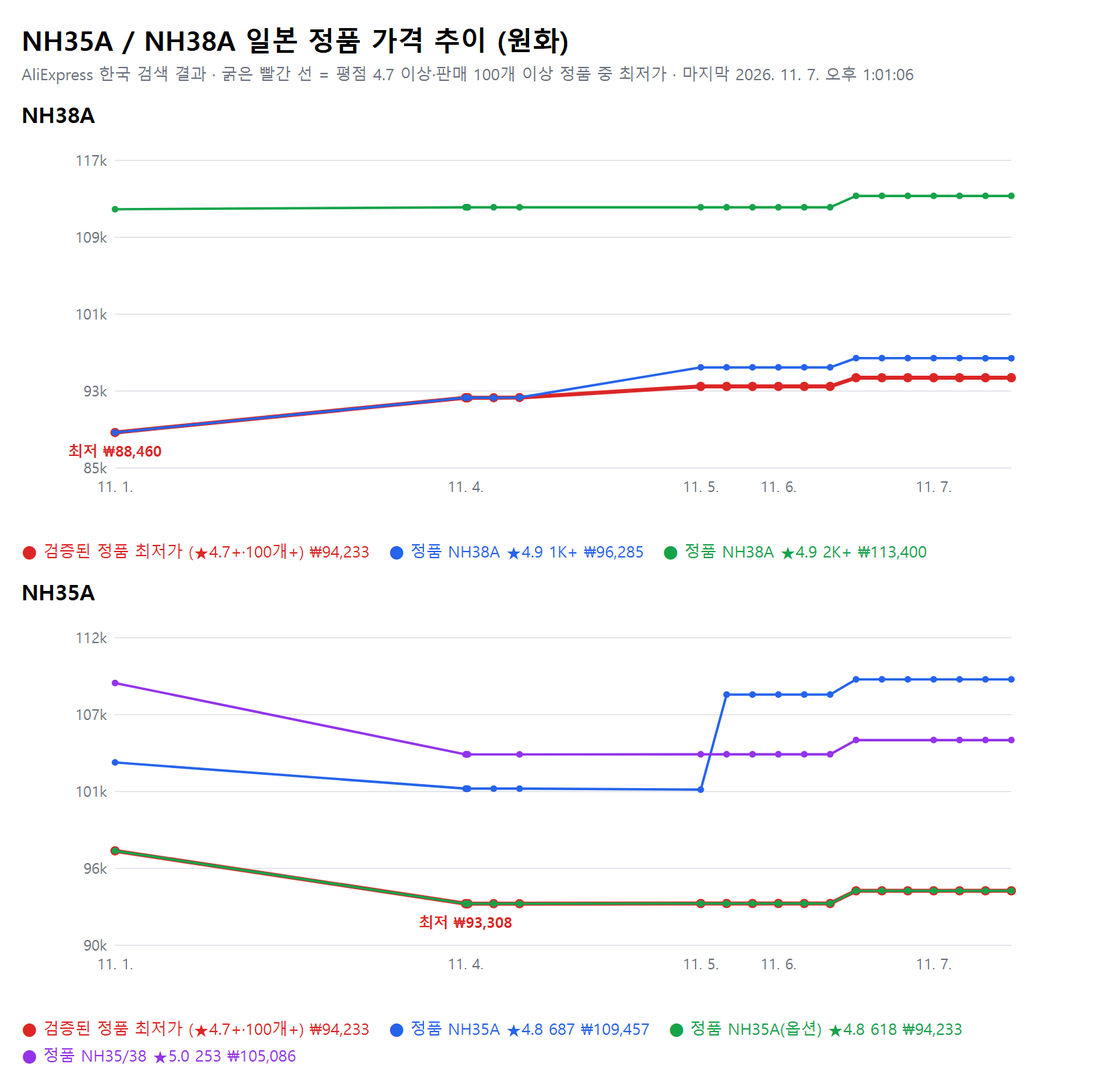
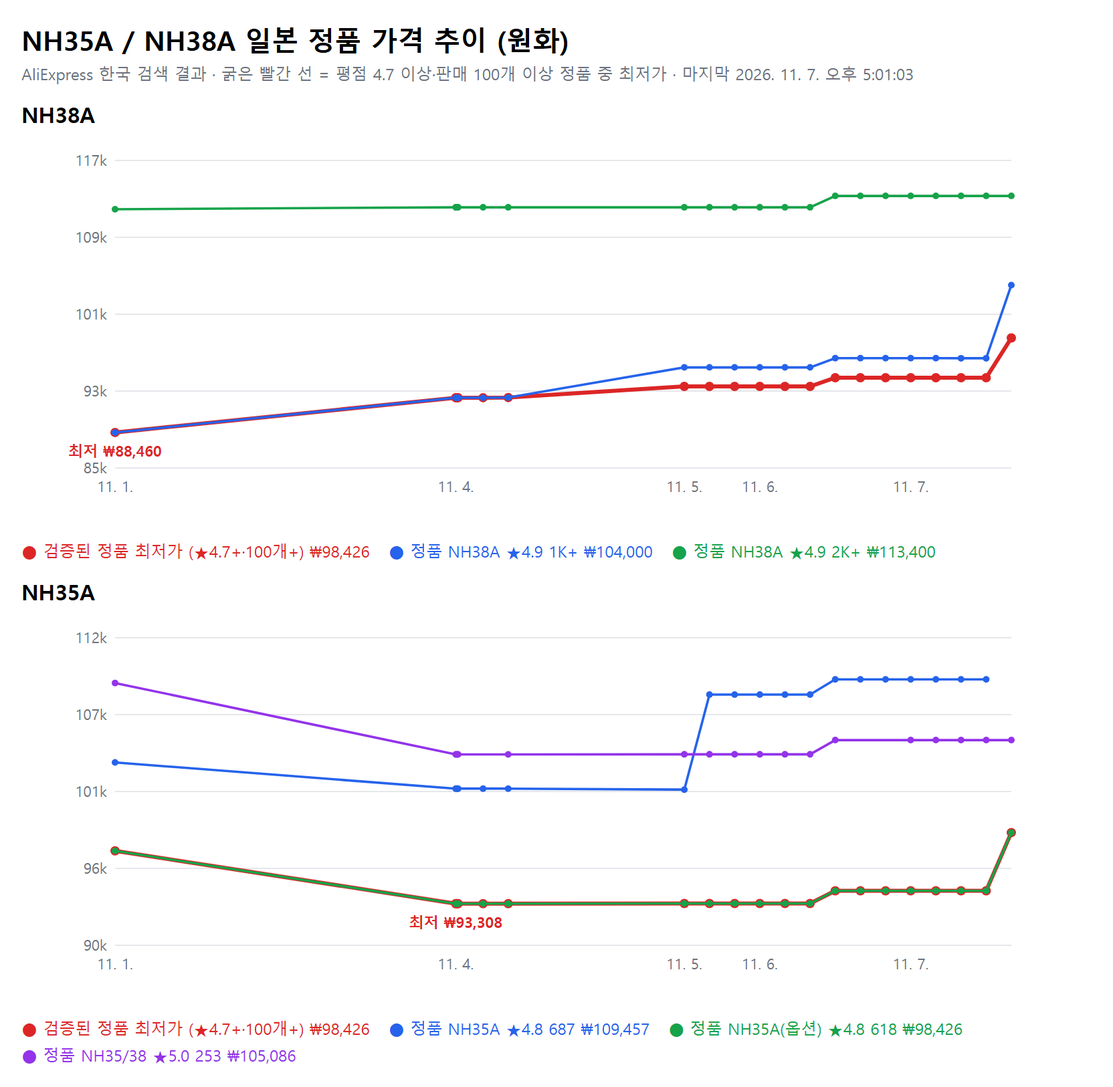
Price tracker update 2026-11-07 17:00 KST

diff --git a/watch_mod/price_tracker/chart.html b/watch_mod/price_tracker/chart.html
@@ -1,2 +1,2 @@
 <!DOCTYPE html><html><head><meta charset="utf-8"><style>body{font-family:sans-serif;margin:16px;width:800px}h1{font-size:20px;margin:0 0 4px}p{color:#6b7280;margin:0 0 8px;font-size:12px}h2{font-size:16px;margin:12px 0 4px}.lg{font-size:12px;display:flex;flex-wrap:wrap;gap:4px 14px}</style></head><body>
-  <h1>NH35A / NH38A 일본 정품 가격 추이 (원화)</h1><p>AliExpress 한국 검색 결과 · 굵은 빨간 선 = 평점 4.7 이상·판매 100개 이상 정품 중 최저가 · 마지막 2026. 11. 7. 오후 1:01:06</p><h2>NH38A</h2><svg width="760" height="300" xmlns="http://www.w3.org/2000/svg" font-family="sans-serif" font-size="11"><line x1="70" x2="740" y1="250" y2="250" stroke="#e5e7eb"/><text x="64" y="254" text-anchor="end" fill="#6b7280">85k</text><line x1="70" x2="740" y1="192.5" y2="192.5" stroke="#e5e7eb"/><text x="64" y="196.5" text-anchor="end" fill="#6b7280">93k</text><line x1="70" x2="740" y1="135" y2="135" stroke="#e5e7eb"/><text x="64" y="139" text-anchor="end" fill="#6b7280">101k</text><line x1="70" x2="740" y1="77.5" y2="77.5" stroke="#e5e7eb"/><text x="64" y="81.5" text-anchor="end" fill="#6b7280">109k</text><line x1="70" x2="740" y1="20" y2="20" stroke="#e5e7eb"/><text x="64" y="24" text-anchor="end" fill="#6b7280">117k</text><text x="70" y="268" text-anchor="middle" fill="#6b7280">11. 1.</text><text x="332.0181227190417" y="268" text-anchor="middle" fill="#6b7280">11. 4.</text><text x="507.82617913022466" y="268" text-anchor="middle" fill="#6b7280">11. 5.</text><text x="565.8701271071232" y="268" text-anchor="middle" fill="#6b7280">11. 6.</text><text x="681.956586769558" y="268" text-anchor="middle" fill="#6b7280">11. 7.</text><polyline fill="none" stroke="#dc2626" stroke-width="3" points="70,223.46153846153845 332.0181227190417,197.46221701313925 332.438472397783,197.46221701313925 333.3604209706352,197.46221701313925 333.8277087585664,197.46221701313925 353.04366816047747,197.46221701313925 372.3862469243481,197.3203380420702 507.82617913022466,189.01332428597865 527.17584530002,189.01332428597865 546.5215196815684,189.01332428597865 565.8701271071232,189.01332428597865 585.217799398171,189.01332428597865 604.568900515744,189.01332428597865 623.9105629552846,182.50817346246376 643.2569521235538,182.50817346246376 662.6086067977601,182.50817346246376 681.956586769558,182.50817346246376 701.2987732068827,182.50817346246376 720.6488867901704,182.50817346246376 740,182.50817346246376"/><circle cx="70" cy="223.46153846153845" r="3.5" fill="#dc2626"/><circle cx="332.0181227190417" cy="197.46221701313925" r="3.5" fill="#dc2626"/><circle cx="332.438472397783" cy="197.46221701313925" r="3.5" fill="#dc2626"/><circle cx="333.3604209706352" cy="197.46221701313925" r="3.5" fill="#dc2626"/><circle cx="333.8277087585664" cy="197.46221701313925" r="3.5" fill="#dc2626"/><circle cx="353.04366816047747" cy="197.46221701313925" r="3.5" fill="#dc2626"/><circle cx="372.3862469243481" cy="197.3203380420702" r="3.5" fill="#dc2626"/><circle cx="507.82617913022466" cy="189.01332428597865" r="3.5" fill="#dc2626"/><circle cx="527.17584530002" cy="189.01332428597865" r="3.5" fill="#dc2626"/><circle cx="546.5215196815684" cy="189.01332428597865" r="3.5" fill="#dc2626"/><circle cx="565.8701271071232" cy="189.01332428597865" r="3.5" fill="#dc2626"/><circle cx="585.217799398171" cy="189.01332428597865" r="3.5" fill="#dc2626"/><circle cx="604.568900515744" cy="189.01332428597865" r="3.5" fill="#dc2626"/><circle cx="623.9105629552846" cy="182.50817346246376" r="3.5" fill="#dc2626"/><circle cx="643.2569521235538" cy="182.50817346246376" r="3.5" fill="#dc2626"/><circle cx="662.6086067977601" cy="182.50817346246376" r="3.5" fill="#dc2626"/><circle cx="681.956586769558" cy="182.50817346246376" r="3.5" fill="#dc2626"/><circle cx="701.2987732068827" cy="182.50817346246376" r="3.5" fill="#dc2626"/><circle cx="720.6488867901704" cy="182.50817346246376" r="3.5" fill="#dc2626"/><circle cx="740" cy="182.50817346246376" r="3.5" fill="#dc2626"/><polyline fill="none" stroke="#2563eb" stroke-width="1.8" points="70,223.46153846153845 332.0181227190417,197.46221701313925 332.438472397783,197.46221701313925 333.3604209706352,197.46221701313925 333.8277087585664,197.46221701313925 353.04366816047747,197.46221701313925 372.3862469243481,197.3203380420702 507.82617913022466,174.7899574363087 527.17584530002,174.7899574363087 546.5215196815684,174.7899574363087 565.8701271071232,174.7899574363087 585.217799398171,174.7899574363087 604.568900515744,174.7899574363087 623.9105629552846,167.85207575103323 643.2569521235538,167.85207575103323 662.6086067977601,167.85207575103323 681.956586769558,167.85207575103323 701.2987732068827,167.85207575103323 720.6488867901704,167.9513910307816 740,167.9513910307816"/><circle cx="70" cy="223.46153846153845" r="2.5" fill="#2563eb"/><circle cx="332.0181227190417" cy="197.46221701313925" r="2.5" fill="#2563eb"/><circle cx="332.438472397783" cy="197.46221701313925" r="2.5" fill="#2563eb"/><circle cx="333.3604209706352" cy="197.46221701313925" r="2.5" fill="#2563eb"/><circle cx="333.8277087585664" cy="197.46221701313925" r="2.5" fill="#2563eb"/><circle cx="353.04366816047747" cy="197.46221701313925" r="2.5" fill="#2563eb"/><circle cx="372.3862469243481" cy="197.3203380420702" r="2.5" fill="#2563eb"/><circle cx="507.82617913022466" cy="174.7899574363087" r="2.5" fill="#2563eb"/><circle cx="527.17584530002" cy="174.7899574363087" r="2.5" fill="#2563eb"/><circle cx="546.5215196815684" cy="174.7899574363087" r="2.5" fill="#2563eb"/><circle cx="565.8701271071232" cy="174.7899574363087" r="2.5" fill="#2563eb"/><circle cx="585.217799398171" cy="174.7899574363087" r="2.5" fill="#2563eb"/><circle cx="604.568900515744" cy="174.7899574363087" r="2.5" fill="#2563eb"/><circle cx="623.9105629552846" cy="167.85207575103323" r="2.5" fill="#2563eb"/><circle cx="643.2569521235538" cy="167.85207575103323" r="2.5" fill="#2563eb"/><circle cx="662.6086067977601" cy="167.85207575103323" r="2.5" fill="#2563eb"/><circle cx="681.956586769558" cy="167.85207575103323" r="2.5" fill="#2563eb"/><circle cx="701.2987732068827" cy="167.85207575103323" r="2.5" fill="#2563eb"/><circle cx="720.6488867901704" cy="167.9513910307816" r="2.5" fill="#2563eb"/><circle cx="740" cy="167.9513910307816" r="2.5" fill="#2563eb"/><polyline fill="none" stroke="#16a34a" stroke-width="1.8" points="70,56.469989513293434 332.0181227190417,55.05119980260318 332.438472397783,55.05119980260318 333.3604209706352,55.05119980260318 333.8277087585664,55.05119980260318 353.04366816047747,55.05119980260318 372.3862469243481,55.05119980260318 507.82617913022466,55.05119980260318 527.17584530002,55.05119980260318 546.5215196815684,55.05119980260318 565.8701271071232,55.05119980260318 585.217799398171,55.05119980260318 604.568900515744,55.05119980260318 623.9105629552846,46.53846153846155 643.2569521235538,46.53846153846155 662.6086067977601,46.53846153846155 681.956586769558,46.53846153846155 701.2987732068827,46.53846153846155 720.6488867901704,46.53846153846155 740,46.53846153846155"/><circle cx="70" cy="56.469989513293434" r="2.5" fill="#16a34a"/><circle cx="332.0181227190417" cy="55.05119980260318" r="2.5" fill="#16a34a"/><circle cx="332.438472397783" cy="55.05119980260318" r="2.5" fill="#16a34a"/><circle cx="333.3604209706352" cy="55.05119980260318" r="2.5" fill="#16a34a"/><circle cx="333.8277087585664" cy="55.05119980260318" r="2.5" fill="#16a34a"/><circle cx="353.04366816047747" cy="55.05119980260318" r="2.5" fill="#16a34a"/><circle cx="372.3862469243481" cy="55.05119980260318" r="2.5" fill="#16a34a"/><circle cx="507.82617913022466" cy="55.05119980260318" r="2.5" fill="#16a34a"/><circle cx="527.17584530002" cy="55.05119980260318" r="2.5" fill="#16a34a"/><circle cx="546.5215196815684" cy="55.05119980260318" r="2.5" fill="#16a34a"/><circle cx="565.8701271071232" cy="55.05119980260318" r="2.5" fill="#16a34a"/><circle cx="585.217799398171" cy="55.05119980260318" r="2.5" fill="#16a34a"/><circle cx="604.568900515744" cy="55.05119980260318" r="2.5" fill="#16a34a"/><circle cx="623.9105629552846" cy="46.53846153846155" r="2.5" fill="#16a34a"/><circle cx="643.2569521235538" cy="46.53846153846155" r="2.5" fill="#16a34a"/><circle cx="662.6086067977601" cy="46.53846153846155" r="2.5" fill="#16a34a"/><circle cx="681.956586769558" cy="46.53846153846155" r="2.5" fill="#16a34a"/><circle cx="701.2987732068827" cy="46.53846153846155" r="2.5" fill="#16a34a"/><circle cx="720.6488867901704" cy="46.53846153846155" r="2.5" fill="#16a34a"/><circle cx="740" cy="46.53846153846155" r="2.5" fill="#16a34a"/><text x="70" y="241.46153846153845" text-anchor="middle" fill="#dc2626" font-weight="bold">최저 ₩88,460</text></svg><div class="lg"><span style="color:#dc2626">● 검증된 정품 최저가 (★4.7+·100개+) ₩94,233</span><span style="color:#2563eb">● 정품 NH38A ★4.9 1K+ ₩96,285</span><span style="color:#16a34a">● 정품 NH38A ★4.9 2K+ ₩113,400</span></div><h2>NH35A</h2><svg width="760" height="300" xmlns="http://www.w3.org/2000/svg" font-family="sans-serif" font-size="11"><line x1="70" x2="740" y1="250" y2="250" stroke="#e5e7eb"/><text x="64" y="254" text-anchor="end" fill="#6b7280">90k</text><line x1="70" x2="740" y1="192.5" y2="192.5" stroke="#e5e7eb"/><text x="64" y="196.5" text-anchor="end" fill="#6b7280">96k</text><line x1="70" x2="740" y1="135" y2="135" stroke="#e5e7eb"/><text x="64" y="139" text-anchor="end" fill="#6b7280">101k</text><line x1="70" x2="740" y1="77.5" y2="77.5" stroke="#e5e7eb"/><text x="64" y="81.5" text-anchor="end" fill="#6b7280">107k</text><line x1="70" x2="740" y1="20" y2="20" stroke="#e5e7eb"/><text x="64" y="24" text-anchor="end" fill="#6b7280">112k</text><text x="70" y="268" text-anchor="middle" fill="#6b7280">11. 1.</text><text x="332.0181227190417" y="268" text-anchor="middle" fill="#6b7280">11. 4.</text><text x="507.82617913022466" y="268" text-anchor="middle" fill="#6b7280">11. 5.</text><text x="565.8701271071232" y="268" text-anchor="middle" fill="#6b7280">11. 6.</text><text x="681.956586769558" y="268" text-anchor="middle" fill="#6b7280">11. 7.</text><polyline fill="none" stroke="#dc2626" stroke-width="3" points="70,179.38733125649014 332.0181227190417,218.84735202492212 332.438472397783,218.84735202492212 333.3604209706352,218.84735202492212 333.8277087585664,218.84735202492212 353.04366816047747,218.84735202492212 372.3862469243481,218.84735202492212 507.82617913022466,218.76427829698858 527.17584530002,218.76427829698858 546.5215196815684,218.76427829698858 565.8701271071232,218.76427829698858 585.217799398171,218.76427829698858 604.568900515744,218.76427829698858 623.9105629552846,209.24195223260645 643.2569521235538,209.24195223260645 662.6086067977601,209.24195223260645 681.956586769558,209.24195223260645 701.2987732068827,209.24195223260645 720.6488867901704,209.24195223260645 740,209.24195223260645"/><circle cx="70" cy="179.38733125649014" r="3.5" fill="#dc2626"/><circle cx="332.0181227190417" cy="218.84735202492212" r="3.5" fill="#dc2626"/><circle cx="332.438472397783" cy="218.84735202492212" r="3.5" fill="#dc2626"/><circle cx="333.3604209706352" cy="218.84735202492212" r="3.5" fill="#dc2626"/><circle cx="333.8277087585664" cy="218.84735202492212" r="3.5" fill="#dc2626"/><circle cx="353.04366816047747" cy="218.84735202492212" r="3.5" fill="#dc2626"/><circle cx="372.3862469243481" cy="218.84735202492212" r="3.5" fill="#dc2626"/><circle cx="507.82617913022466" cy="218.76427829698858" r="3.5" fill="#dc2626"/><circle cx="527.17584530002" cy="218.76427829698858" r="3.5" fill="#dc2626"/><circle cx="546.5215196815684" cy="218.76427829698858" r="3.5" fill="#dc2626"/><circle cx="565.8701271071232" cy="218.76427829698858" r="3.5" fill="#dc2626"/><circle cx="585.217799398171" cy="218.76427829698858" r="3.5" fill="#dc2626"/><circle cx="604.568900515744" cy="218.76427829698858" r="3.5" fill="#dc2626"/><circle cx="623.9105629552846" cy="209.24195223260645" r="3.5" fill="#dc2626"/><circle cx="643.2569521235538" cy="209.24195223260645" r="3.5" fill="#dc2626"/><circle cx="662.6086067977601" cy="209.24195223260645" r="3.5" fill="#dc2626"/><circle cx="681.956586769558" cy="209.24195223260645" r="3.5" fill="#dc2626"/><circle cx="701.2987732068827" cy="209.24195223260645" r="3.5" fill="#dc2626"/><circle cx="720.6488867901704" cy="209.24195223260645" r="3.5" fill="#dc2626"/><circle cx="740" cy="209.24195223260645" r="3.5" fill="#dc2626"/><polyline fill="none" stroke="#2563eb" stroke-width="1.8" points="70,113.23987538940811 332.0181227190417,132.8348909657321 332.438472397783,132.8348909657321 333.3604209706352,132.8348909657321 333.8277087585664,132.8348909657321 353.04366816047747,132.8348909657321 372.3862469243481,132.8348909657321 507.82617913022466,133.58255451713396 527.17584530002,62.50259605399793 546.5215196815684,62.50259605399793 565.8701271071232,62.50259605399793 585.217799398171,62.50259605399793 604.568900515744,62.50259605399793 623.9105629552846,51.1526479750779 643.2569521235538,51.1526479750779 662.6086067977601,51.1526479750779 681.956586769558,51.1526479750779 701.2987732068827,51.1526479750779 720.6488867901704,51.1526479750779 740,51.1526479750779"/><circle cx="70" cy="113.23987538940811" r="2.5" fill="#2563eb"/><circle cx="332.0181227190417" cy="132.8348909657321" r="2.5" fill="#2563eb"/><circle cx="332.438472397783" cy="132.8348909657321" r="2.5" fill="#2563eb"/><circle cx="333.3604209706352" cy="132.8348909657321" r="2.5" fill="#2563eb"/><circle cx="333.8277087585664" cy="132.8348909657321" r="2.5" fill="#2563eb"/><circle cx="353.04366816047747" cy="132.8348909657321" r="2.5" fill="#2563eb"/><circle cx="372.3862469243481" cy="132.8348909657321" r="2.5" fill="#2563eb"/><circle cx="507.82617913022466" cy="133.58255451713396" r="2.5" fill="#2563eb"/><circle cx="527.17584530002" cy="62.50259605399793" r="2.5" fill="#2563eb"/><circle cx="546.5215196815684" cy="62.50259605399793" r="2.5" fill="#2563eb"/><circle cx="565.8701271071232" cy="62.50259605399793" r="2.5" fill="#2563eb"/><circle cx="585.217799398171" cy="62.50259605399793" r="2.5" fill="#2563eb"/><circle cx="604.568900515744" cy="62.50259605399793" r="2.5" fill="#2563eb"/><circle cx="623.9105629552846" cy="51.1526479750779" r="2.5" fill="#2563eb"/><circle cx="643.2569521235538" cy="51.1526479750779" r="2.5" fill="#2563eb"/><circle cx="662.6086067977601" cy="51.1526479750779" r="2.5" fill="#2563eb"/><circle cx="681.956586769558" cy="51.1526479750779" r="2.5" fill="#2563eb"/><circle cx="701.2987732068827" cy="51.1526479750779" r="2.5" fill="#2563eb"/><circle cx="720.6488867901704" cy="51.1526479750779" r="2.5" fill="#2563eb"/><circle cx="740" cy="51.1526479750779" r="2.5" fill="#2563eb"/><polyline fill="none" stroke="#16a34a" stroke-width="1.8" points="70,179.38733125649014 332.0181227190417,218.84735202492212 332.438472397783,218.84735202492212 333.3604209706352,218.84735202492212 333.8277087585664,218.84735202492212 353.04366816047747,218.84735202492212 372.3862469243481,218.84735202492212 507.82617913022466,218.76427829698858 527.17584530002,218.76427829698858 546.5215196815684,218.76427829698858 565.8701271071232,218.76427829698858 585.217799398171,218.76427829698858 604.568900515744,218.76427829698858 623.9105629552846,209.24195223260645 643.2569521235538,209.24195223260645 662.6086067977601,209.24195223260645 681.956586769558,209.24195223260645 701.2987732068827,209.24195223260645 720.6488867901704,209.24195223260645 740,209.24195223260645"/><circle cx="70" cy="179.38733125649014" r="2.5" fill="#16a34a"/><circle cx="332.0181227190417" cy="218.84735202492212" r="2.5" fill="#16a34a"/><circle cx="332.438472397783" cy="218.84735202492212" r="2.5" fill="#16a34a"/><circle cx="333.3604209706352" cy="218.84735202492212" r="2.5" fill="#16a34a"/><circle cx="333.8277087585664" cy="218.84735202492212" r="2.5" fill="#16a34a"/><circle cx="353.04366816047747" cy="218.84735202492212" r="2.5" fill="#16a34a"/><circle cx="372.3862469243481" cy="218.84735202492212" r="2.5" fill="#16a34a"/><circle cx="507.82617913022466" cy="218.76427829698858" r="2.5" fill="#16a34a"/><circle cx="527.17584530002" cy="218.76427829698858" r="2.5" fill="#16a34a"/><circle cx="546.5215196815684" cy="218.76427829698858" r="2.5" fill="#16a34a"/><circle cx="565.8701271071232" cy="218.76427829698858" r="2.5" fill="#16a34a"/><circle cx="585.217799398171" cy="218.76427829698858" r="2.5" fill="#16a34a"/><circle cx="604.568900515744" cy="218.76427829698858" r="2.5" fill="#16a34a"/><circle cx="623.9105629552846" cy="209.24195223260645" r="2.5" fill="#16a34a"/><circle cx="643.2569521235538" cy="209.24195223260645" r="2.5" fill="#16a34a"/><circle cx="662.6086067977601" cy="209.24195223260645" r="2.5" fill="#16a34a"/><circle cx="681.956586769558" cy="209.24195223260645" r="2.5" fill="#16a34a"/><circle cx="701.2987732068827" cy="209.24195223260645" r="2.5" fill="#16a34a"/><circle cx="720.6488867901704" cy="209.24195223260645" r="2.5" fill="#16a34a"/><circle cx="740" cy="209.24195223260645" r="2.5" fill="#16a34a"/><polyline fill="none" stroke="#9333ea" stroke-width="1.8" points="70,53.821391484942886 332.0181227190417,107.26895119418484 332.438472397783,107.26895119418484 333.3604209706352,107.26895119418484 333.8277087585664,107.26895119418484 372.3862469243481,107.26895119418484 507.82617913022466,107.17549325025959 527.17584530002,107.17549325025959 546.5215196815684,107.17549325025959 565.8701271071232,107.17549325025959 585.217799398171,107.17549325025959 604.568900515744,107.17549325025959 623.9105629552846,96.54205607476636 681.956586769558,96.54205607476636 701.2987732068827,96.54205607476636 720.6488867901704,96.54205607476636 740,96.54205607476636"/><circle cx="70" cy="53.821391484942886" r="2.5" fill="#9333ea"/><circle cx="332.0181227190417" cy="107.26895119418484" r="2.5" fill="#9333ea"/><circle cx="332.438472397783" cy="107.26895119418484" r="2.5" fill="#9333ea"/><circle cx="333.3604209706352" cy="107.26895119418484" r="2.5" fill="#9333ea"/><circle cx="333.8277087585664" cy="107.26895119418484" r="2.5" fill="#9333ea"/><circle cx="372.3862469243481" cy="107.26895119418484" r="2.5" fill="#9333ea"/><circle cx="507.82617913022466" cy="107.17549325025959" r="2.5" fill="#9333ea"/><circle cx="527.17584530002" cy="107.17549325025959" r="2.5" fill="#9333ea"/><circle cx="546.5215196815684" cy="107.17549325025959" r="2.5" fill="#9333ea"/><circle cx="565.8701271071232" cy="107.17549325025959" r="2.5" fill="#9333ea"/><circle cx="585.217799398171" cy="107.17549325025959" r="2.5" fill="#9333ea"/><circle cx="604.568900515744" cy="107.17549325025959" r="2.5" fill="#9333ea"/><circle cx="623.9105629552846" cy="96.54205607476636" r="2.5" fill="#9333ea"/><circle cx="681.956586769558" cy="96.54205607476636" r="2.5" fill="#9333ea"/><circle cx="701.2987732068827" cy="96.54205607476636" r="2.5" fill="#9333ea"/><circle cx="720.6488867901704" cy="96.54205607476636" r="2.5" fill="#9333ea"/><circle cx="740" cy="96.54205607476636" r="2.5" fill="#9333ea"/><text x="332.0181227190417" y="236.84735202492212" text-anchor="middle" fill="#dc2626" font-weight="bold">최저 ₩93,308</text></svg><div class="lg"><span style="color:#dc2626">● 검증된 정품 최저가 (★4.7+·100개+) ₩94,233</span><span style="color:#2563eb">● 정품 NH35A ★4.8 687 ₩109,457</span><span style="color:#16a34a">● 정품 NH35A(옵션) ★4.8 618 ₩94,233</span><span style="color:#9333ea">● 정품 NH35/38 ★5.0 253 ₩105,086</span></div></body></html>
+  <h1>NH35A / NH38A 일본 정품 가격 추이 (원화)</h1><p>AliExpress 한국 검색 결과 · 굵은 빨간 선 = 평점 4.7 이상·판매 100개 이상 정품 중 최저가 · 마지막 2026. 11. 7. 오후 5:01:03</p><h2>NH38A</h2><svg width="760" height="300" xmlns="http://www.w3.org/2000/svg" font-family="sans-serif" font-size="11"><line x1="70" x2="740" y1="250" y2="250" stroke="#e5e7eb"/><text x="64" y="254" text-anchor="end" fill="#6b7280">85k</text><line x1="70" x2="740" y1="192.5" y2="192.5" stroke="#e5e7eb"/><text x="64" y="196.5" text-anchor="end" fill="#6b7280">93k</text><line x1="70" x2="740" y1="135" y2="135" stroke="#e5e7eb"/><text x="64" y="139" text-anchor="end" fill="#6b7280">101k</text><line x1="70" x2="740" y1="77.5" y2="77.5" stroke="#e5e7eb"/><text x="64" y="81.5" text-anchor="end" fill="#6b7280">109k</text><line x1="70" x2="740" y1="20" y2="20" stroke="#e5e7eb"/><text x="64" y="24" text-anchor="end" fill="#6b7280">117k</text><text x="70" y="268" text-anchor="middle" fill="#6b7280">11. 1.</text><text x="324.66567648718046" y="268" text-anchor="middle" fill="#6b7280">11. 4.</text><text x="495.5404127582244" y="268" text-anchor="middle" fill="#6b7280">11. 5.</text><text x="551.955599326727" y="268" text-anchor="middle" fill="#6b7280">11. 6.</text><text x="664.7845764758994" y="268" text-anchor="middle" fill="#6b7280">11. 7.</text><polyline fill="none" stroke="#dc2626" stroke-width="3" points="70,223.46153846153845 324.66567648718046,197.46221701313925 325.07423080467174,197.46221701313925 325.9703087345314,197.46221701313925 326.4244840388683,197.46221701313925 345.10122765360387,197.46221701313925 363.9010375857956,197.3203380420702 495.5404127582244,189.01332428597865 514.3471112178418,189.01332428597865 533.1499299021071,189.01332428597865 551.955599326727,189.01332428597865 570.7603598574913,189.01332428597865 589.5684529990594,189.01332428597865 608.3673723197433,182.50817346246376 627.1708857332201,182.50817346246376 645.9795168981625,182.50817346246376 664.7845764758994,182.50817346246376 683.584005090554,182.50817346246376 702.3911384088694,182.50817346246376 721.1992433033754,182.50817346246376 740,152.7632471778422"/><circle cx="70" cy="223.46153846153845" r="3.5" fill="#dc2626"/><circle cx="324.66567648718046" cy="197.46221701313925" r="3.5" fill="#dc2626"/><circle cx="325.07423080467174" cy="197.46221701313925" r="3.5" fill="#dc2626"/><circle cx="325.9703087345314" cy="197.46221701313925" r="3.5" fill="#dc2626"/><circle cx="326.4244840388683" cy="197.46221701313925" r="3.5" fill="#dc2626"/><circle cx="345.10122765360387" cy="197.46221701313925" r="3.5" fill="#dc2626"/><circle cx="363.9010375857956" cy="197.3203380420702" r="3.5" fill="#dc2626"/><circle cx="495.5404127582244" cy="189.01332428597865" r="3.5" fill="#dc2626"/><circle cx="514.3471112178418" cy="189.01332428597865" r="3.5" fill="#dc2626"/><circle cx="533.1499299021071" cy="189.01332428597865" r="3.5" fill="#dc2626"/><circle cx="551.955599326727" cy="189.01332428597865" r="3.5" fill="#dc2626"/><circle cx="570.7603598574913" cy="189.01332428597865" r="3.5" fill="#dc2626"/><circle cx="589.5684529990594" cy="189.01332428597865" r="3.5" fill="#dc2626"/><circle cx="608.3673723197433" cy="182.50817346246376" r="3.5" fill="#dc2626"/><circle cx="627.1708857332201" cy="182.50817346246376" r="3.5" fill="#dc2626"/><circle cx="645.9795168981625" cy="182.50817346246376" r="3.5" fill="#dc2626"/><circle cx="664.7845764758994" cy="182.50817346246376" r="3.5" fill="#dc2626"/><circle cx="683.584005090554" cy="182.50817346246376" r="3.5" fill="#dc2626"/><circle cx="702.3911384088694" cy="182.50817346246376" r="3.5" fill="#dc2626"/><circle cx="721.1992433033754" cy="182.50817346246376" r="3.5" fill="#dc2626"/><circle cx="740" cy="152.7632471778422" r="3.5" fill="#dc2626"/><polyline fill="none" stroke="#2563eb" stroke-width="1.8" points="70,223.46153846153845 324.66567648718046,197.46221701313925 325.07423080467174,197.46221701313925 325.9703087345314,197.46221701313925 326.4244840388683,197.46221701313925 345.10122765360387,197.46221701313925 363.9010375857956,197.3203380420702 495.5404127582244,174.7899574363087 514.3471112178418,174.7899574363087 533.1499299021071,174.7899574363087 551.955599326727,174.7899574363087 570.7603598574913,174.7899574363087 589.5684529990594,174.7899574363087 608.3673723197433,167.85207575103323 627.1708857332201,167.85207575103323 645.9795168981625,167.85207575103323 664.7845764758994,167.85207575103323 683.584005090554,167.85207575103323 702.3911384088694,167.9513910307816 721.1992433033754,167.9513910307816 740,113.22157794090433"/><circle cx="70" cy="223.46153846153845" r="2.5" fill="#2563eb"/><circle cx="324.66567648718046" cy="197.46221701313925" r="2.5" fill="#2563eb"/><circle cx="325.07423080467174" cy="197.46221701313925" r="2.5" fill="#2563eb"/><circle cx="325.9703087345314" cy="197.46221701313925" r="2.5" fill="#2563eb"/><circle cx="326.4244840388683" cy="197.46221701313925" r="2.5" fill="#2563eb"/><circle cx="345.10122765360387" cy="197.46221701313925" r="2.5" fill="#2563eb"/><circle cx="363.9010375857956" cy="197.3203380420702" r="2.5" fill="#2563eb"/><circle cx="495.5404127582244" cy="174.7899574363087" r="2.5" fill="#2563eb"/><circle cx="514.3471112178418" cy="174.7899574363087" r="2.5" fill="#2563eb"/><circle cx="533.1499299021071" cy="174.7899574363087" r="2.5" fill="#2563eb"/><circle cx="551.955599326727" cy="174.7899574363087" r="2.5" fill="#2563eb"/><circle cx="570.7603598574913" cy="174.7899574363087" r="2.5" fill="#2563eb"/><circle cx="589.5684529990594" cy="174.7899574363087" r="2.5" fill="#2563eb"/><circle cx="608.3673723197433" cy="167.85207575103323" r="2.5" fill="#2563eb"/><circle cx="627.1708857332201" cy="167.85207575103323" r="2.5" fill="#2563eb"/><circle cx="645.9795168981625" cy="167.85207575103323" r="2.5" fill="#2563eb"/><circle cx="664.7845764758994" cy="167.85207575103323" r="2.5" fill="#2563eb"/><circle cx="683.584005090554" cy="167.85207575103323" r="2.5" fill="#2563eb"/><circle cx="702.3911384088694" cy="167.9513910307816" r="2.5" fill="#2563eb"/><circle cx="721.1992433033754" cy="167.9513910307816" r="2.5" fill="#2563eb"/><circle cx="740" cy="113.22157794090433" r="2.5" fill="#2563eb"/><polyline fill="none" stroke="#16a34a" stroke-width="1.8" points="70,56.469989513293434 324.66567648718046,55.05119980260318 325.07423080467174,55.05119980260318 325.9703087345314,55.05119980260318 326.4244840388683,55.05119980260318 345.10122765360387,55.05119980260318 363.9010375857956,55.05119980260318 495.5404127582244,55.05119980260318 514.3471112178418,55.05119980260318 533.1499299021071,55.05119980260318 551.955599326727,55.05119980260318 570.7603598574913,55.05119980260318 589.5684529990594,55.05119980260318 608.3673723197433,46.53846153846155 627.1708857332201,46.53846153846155 645.9795168981625,46.53846153846155 664.7845764758994,46.53846153846155 683.584005090554,46.53846153846155 702.3911384088694,46.53846153846155 721.1992433033754,46.53846153846155 740,46.53846153846155"/><circle cx="70" cy="56.469989513293434" r="2.5" fill="#16a34a"/><circle cx="324.66567648718046" cy="55.05119980260318" r="2.5" fill="#16a34a"/><circle cx="325.07423080467174" cy="55.05119980260318" r="2.5" fill="#16a34a"/><circle cx="325.9703087345314" cy="55.05119980260318" r="2.5" fill="#16a34a"/><circle cx="326.4244840388683" cy="55.05119980260318" r="2.5" fill="#16a34a"/><circle cx="345.10122765360387" cy="55.05119980260318" r="2.5" fill="#16a34a"/><circle cx="363.9010375857956" cy="55.05119980260318" r="2.5" fill="#16a34a"/><circle cx="495.5404127582244" cy="55.05119980260318" r="2.5" fill="#16a34a"/><circle cx="514.3471112178418" cy="55.05119980260318" r="2.5" fill="#16a34a"/><circle cx="533.1499299021071" cy="55.05119980260318" r="2.5" fill="#16a34a"/><circle cx="551.955599326727" cy="55.05119980260318" r="2.5" fill="#16a34a"/><circle cx="570.7603598574913" cy="55.05119980260318" r="2.5" fill="#16a34a"/><circle cx="589.5684529990594" cy="55.05119980260318" r="2.5" fill="#16a34a"/><circle cx="608.3673723197433" cy="46.53846153846155" r="2.5" fill="#16a34a"/><circle cx="627.1708857332201" cy="46.53846153846155" r="2.5" fill="#16a34a"/><circle cx="645.9795168981625" cy="46.53846153846155" r="2.5" fill="#16a34a"/><circle cx="664.7845764758994" cy="46.53846153846155" r="2.5" fill="#16a34a"/><circle cx="683.584005090554" cy="46.53846153846155" r="2.5" fill="#16a34a"/><circle cx="702.3911384088694" cy="46.53846153846155" r="2.5" fill="#16a34a"/><circle cx="721.1992433033754" cy="46.53846153846155" r="2.5" fill="#16a34a"/><circle cx="740" cy="46.53846153846155" r="2.5" fill="#16a34a"/><text x="70" y="241.46153846153845" text-anchor="middle" fill="#dc2626" font-weight="bold">최저 ₩88,460</text></svg><div class="lg"><span style="color:#dc2626">● 검증된 정품 최저가 (★4.7+·100개+) ₩98,426</span><span style="color:#2563eb">● 정품 NH38A ★4.9 1K+ ₩104,000</span><span style="color:#16a34a">● 정품 NH38A ★4.9 2K+ ₩113,400</span></div><h2>NH35A</h2><svg width="760" height="300" xmlns="http://www.w3.org/2000/svg" font-family="sans-serif" font-size="11"><line x1="70" x2="740" y1="250" y2="250" stroke="#e5e7eb"/><text x="64" y="254" text-anchor="end" fill="#6b7280">90k</text><line x1="70" x2="740" y1="192.5" y2="192.5" stroke="#e5e7eb"/><text x="64" y="196.5" text-anchor="end" fill="#6b7280">96k</text><line x1="70" x2="740" y1="135" y2="135" stroke="#e5e7eb"/><text x="64" y="139" text-anchor="end" fill="#6b7280">101k</text><line x1="70" x2="740" y1="77.5" y2="77.5" stroke="#e5e7eb"/><text x="64" y="81.5" text-anchor="end" fill="#6b7280">107k</text><line x1="70" x2="740" y1="20" y2="20" stroke="#e5e7eb"/><text x="64" y="24" text-anchor="end" fill="#6b7280">112k</text><text x="70" y="268" text-anchor="middle" fill="#6b7280">11. 1.</text><text x="324.66567648718046" y="268" text-anchor="middle" fill="#6b7280">11. 4.</text><text x="495.5404127582244" y="268" text-anchor="middle" fill="#6b7280">11. 5.</text><text x="551.955599326727" y="268" text-anchor="middle" fill="#6b7280">11. 6.</text><text x="664.7845764758994" y="268" text-anchor="middle" fill="#6b7280">11. 7.</text><polyline fill="none" stroke="#dc2626" stroke-width="3" points="70,179.38733125649014 324.66567648718046,218.84735202492212 325.07423080467174,218.84735202492212 325.9703087345314,218.84735202492212 326.4244840388683,218.84735202492212 345.10122765360387,218.84735202492212 363.9010375857956,218.84735202492212 495.5404127582244,218.76427829698858 514.3471112178418,218.76427829698858 533.1499299021071,218.76427829698858 551.955599326727,218.76427829698858 570.7603598574913,218.76427829698858 589.5684529990594,218.76427829698858 608.3673723197433,209.24195223260645 627.1708857332201,209.24195223260645 645.9795168981625,209.24195223260645 664.7845764758994,209.24195223260645 683.584005090554,209.24195223260645 702.3911384088694,209.24195223260645 721.1992433033754,209.24195223260645 740,165.70093457943926"/><circle cx="70" cy="179.38733125649014" r="3.5" fill="#dc2626"/><circle cx="324.66567648718046" cy="218.84735202492212" r="3.5" fill="#dc2626"/><circle cx="325.07423080467174" cy="218.84735202492212" r="3.5" fill="#dc2626"/><circle cx="325.9703087345314" cy="218.84735202492212" r="3.5" fill="#dc2626"/><circle cx="326.4244840388683" cy="218.84735202492212" r="3.5" fill="#dc2626"/><circle cx="345.10122765360387" cy="218.84735202492212" r="3.5" fill="#dc2626"/><circle cx="363.9010375857956" cy="218.84735202492212" r="3.5" fill="#dc2626"/><circle cx="495.5404127582244" cy="218.76427829698858" r="3.5" fill="#dc2626"/><circle cx="514.3471112178418" cy="218.76427829698858" r="3.5" fill="#dc2626"/><circle cx="533.1499299021071" cy="218.76427829698858" r="3.5" fill="#dc2626"/><circle cx="551.955599326727" cy="218.76427829698858" r="3.5" fill="#dc2626"/><circle cx="570.7603598574913" cy="218.76427829698858" r="3.5" fill="#dc2626"/><circle cx="589.5684529990594" cy="218.76427829698858" r="3.5" fill="#dc2626"/><circle cx="608.3673723197433" cy="209.24195223260645" r="3.5" fill="#dc2626"/><circle cx="627.1708857332201" cy="209.24195223260645" r="3.5" fill="#dc2626"/><circle cx="645.9795168981625" cy="209.24195223260645" r="3.5" fill="#dc2626"/><circle cx="664.7845764758994" cy="209.24195223260645" r="3.5" fill="#dc2626"/><circle cx="683.584005090554" cy="209.24195223260645" r="3.5" fill="#dc2626"/><circle cx="702.3911384088694" cy="209.24195223260645" r="3.5" fill="#dc2626"/><circle cx="721.1992433033754" cy="209.24195223260645" r="3.5" fill="#dc2626"/><circle cx="740" cy="165.70093457943926" r="3.5" fill="#dc2626"/><polyline fill="none" stroke="#2563eb" stroke-width="1.8" points="70,113.23987538940811 324.66567648718046,132.8348909657321 325.07423080467174,132.8348909657321 325.9703087345314,132.8348909657321 326.4244840388683,132.8348909657321 345.10122765360387,132.8348909657321 363.9010375857956,132.8348909657321 495.5404127582244,133.58255451713396 514.3471112178418,62.50259605399793 533.1499299021071,62.50259605399793 551.955599326727,62.50259605399793 570.7603598574913,62.50259605399793 589.5684529990594,62.50259605399793 608.3673723197433,51.1526479750779 627.1708857332201,51.1526479750779 645.9795168981625,51.1526479750779 664.7845764758994,51.1526479750779 683.584005090554,51.1526479750779 702.3911384088694,51.1526479750779 721.1992433033754,51.1526479750779"/><circle cx="70" cy="113.23987538940811" r="2.5" fill="#2563eb"/><circle cx="324.66567648718046" cy="132.8348909657321" r="2.5" fill="#2563eb"/><circle cx="325.07423080467174" cy="132.8348909657321" r="2.5" fill="#2563eb"/><circle cx="325.9703087345314" cy="132.8348909657321" r="2.5" fill="#2563eb"/><circle cx="326.4244840388683" cy="132.8348909657321" r="2.5" fill="#2563eb"/><circle cx="345.10122765360387" cy="132.8348909657321" r="2.5" fill="#2563eb"/><circle cx="363.9010375857956" cy="132.8348909657321" r="2.5" fill="#2563eb"/><circle cx="495.5404127582244" cy="133.58255451713396" r="2.5" fill="#2563eb"/><circle cx="514.3471112178418" cy="62.50259605399793" r="2.5" fill="#2563eb"/><circle cx="533.1499299021071" cy="62.50259605399793" r="2.5" fill="#2563eb"/><circle cx="551.955599326727" cy="62.50259605399793" r="2.5" fill="#2563eb"/><circle cx="570.7603598574913" cy="62.50259605399793" r="2.5" fill="#2563eb"/><circle cx="589.5684529990594" cy="62.50259605399793" r="2.5" fill="#2563eb"/><circle cx="608.3673723197433" cy="51.1526479750779" r="2.5" fill="#2563eb"/><circle cx="627.1708857332201" cy="51.1526479750779" r="2.5" fill="#2563eb"/><circle cx="645.9795168981625" cy="51.1526479750779" r="2.5" fill="#2563eb"/><circle cx="664.7845764758994" cy="51.1526479750779" r="2.5" fill="#2563eb"/><circle cx="683.584005090554" cy="51.1526479750779" r="2.5" fill="#2563eb"/><circle cx="702.3911384088694" cy="51.1526479750779" r="2.5" fill="#2563eb"/><circle cx="721.1992433033754" cy="51.1526479750779" r="2.5" fill="#2563eb"/><polyline fill="none" stroke="#16a34a" stroke-width="1.8" points="70,179.38733125649014 324.66567648718046,218.84735202492212 325.07423080467174,218.84735202492212 325.9703087345314,218.84735202492212 326.4244840388683,218.84735202492212 345.10122765360387,218.84735202492212 363.9010375857956,218.84735202492212 495.5404127582244,218.76427829698858 514.3471112178418,218.76427829698858 533.1499299021071,218.76427829698858 551.955599326727,218.76427829698858 570.7603598574913,218.76427829698858 589.5684529990594,218.76427829698858 608.3673723197433,209.24195223260645 627.1708857332201,209.24195223260645 645.9795168981625,209.24195223260645 664.7845764758994,209.24195223260645 683.584005090554,209.24195223260645 702.3911384088694,209.24195223260645 721.1992433033754,209.24195223260645 740,165.70093457943926"/><circle cx="70" cy="179.38733125649014" r="2.5" fill="#16a34a"/><circle cx="324.66567648718046" cy="218.84735202492212" r="2.5" fill="#16a34a"/><circle cx="325.07423080467174" cy="218.84735202492212" r="2.5" fill="#16a34a"/><circle cx="325.9703087345314" cy="218.84735202492212" r="2.5" fill="#16a34a"/><circle cx="326.4244840388683" cy="218.84735202492212" r="2.5" fill="#16a34a"/><circle cx="345.10122765360387" cy="218.84735202492212" r="2.5" fill="#16a34a"/><circle cx="363.9010375857956" cy="218.84735202492212" r="2.5" fill="#16a34a"/><circle cx="495.5404127582244" cy="218.76427829698858" r="2.5" fill="#16a34a"/><circle cx="514.3471112178418" cy="218.76427829698858" r="2.5" fill="#16a34a"/><circle cx="533.1499299021071" cy="218.76427829698858" r="2.5" fill="#16a34a"/><circle cx="551.955599326727" cy="218.76427829698858" r="2.5" fill="#16a34a"/><circle cx="570.7603598574913" cy="218.76427829698858" r="2.5" fill="#16a34a"/><circle cx="589.5684529990594" cy="218.76427829698858" r="2.5" fill="#16a34a"/><circle cx="608.3673723197433" cy="209.24195223260645" r="2.5" fill="#16a34a"/><circle cx="627.1708857332201" cy="209.24195223260645" r="2.5" fill="#16a34a"/><circle cx="645.9795168981625" cy="209.24195223260645" r="2.5" fill="#16a34a"/><circle cx="664.7845764758994" cy="209.24195223260645" r="2.5" fill="#16a34a"/><circle cx="683.584005090554" cy="209.24195223260645" r="2.5" fill="#16a34a"/><circle cx="702.3911384088694" cy="209.24195223260645" r="2.5" fill="#16a34a"/><circle cx="721.1992433033754" cy="209.24195223260645" r="2.5" fill="#16a34a"/><circle cx="740" cy="165.70093457943926" r="2.5" fill="#16a34a"/><polyline fill="none" stroke="#9333ea" stroke-width="1.8" points="70,53.821391484942886 324.66567648718046,107.26895119418484 325.07423080467174,107.26895119418484 325.9703087345314,107.26895119418484 326.4244840388683,107.26895119418484 363.9010375857956,107.26895119418484 495.5404127582244,107.17549325025959 514.3471112178418,107.17549325025959 533.1499299021071,107.17549325025959 551.955599326727,107.17549325025959 570.7603598574913,107.17549325025959 589.5684529990594,107.17549325025959 608.3673723197433,96.54205607476636 664.7845764758994,96.54205607476636 683.584005090554,96.54205607476636 702.3911384088694,96.54205607476636 721.1992433033754,96.54205607476636 740,96.54205607476636"/><circle cx="70" cy="53.821391484942886" r="2.5" fill="#9333ea"/><circle cx="324.66567648718046" cy="107.26895119418484" r="2.5" fill="#9333ea"/><circle cx="325.07423080467174" cy="107.26895119418484" r="2.5" fill="#9333ea"/><circle cx="325.9703087345314" cy="107.26895119418484" r="2.5" fill="#9333ea"/><circle cx="326.4244840388683" cy="107.26895119418484" r="2.5" fill="#9333ea"/><circle cx="363.9010375857956" cy="107.26895119418484" r="2.5" fill="#9333ea"/><circle cx="495.5404127582244" cy="107.17549325025959" r="2.5" fill="#9333ea"/><circle cx="514.3471112178418" cy="107.17549325025959" r="2.5" fill="#9333ea"/><circle cx="533.1499299021071" cy="107.17549325025959" r="2.5" fill="#9333ea"/><circle cx="551.955599326727" cy="107.17549325025959" r="2.5" fill="#9333ea"/><circle cx="570.7603598574913" cy="107.17549325025959" r="2.5" fill="#9333ea"/><circle cx="589.5684529990594" cy="107.17549325025959" r="2.5" fill="#9333ea"/><circle cx="608.3673723197433" cy="96.54205607476636" r="2.5" fill="#9333ea"/><circle cx="664.7845764758994" cy="96.54205607476636" r="2.5" fill="#9333ea"/><circle cx="683.584005090554" cy="96.54205607476636" r="2.5" fill="#9333ea"/><circle cx="702.3911384088694" cy="96.54205607476636" r="2.5" fill="#9333ea"/><circle cx="721.1992433033754" cy="96.54205607476636" r="2.5" fill="#9333ea"/><circle cx="740" cy="96.54205607476636" r="2.5" fill="#9333ea"/><text x="324.66567648718046" y="236.84735202492212" text-anchor="middle" fill="#dc2626" font-weight="bold">최저 ₩93,308</text></svg><div class="lg"><span style="color:#dc2626">● 검증된 정품 최저가 (★4.7+·100개+) ₩98,426</span><span style="color:#2563eb">● 정품 NH35A ★4.8 687 ₩109,457</span><span style="color:#16a34a">● 정품 NH35A(옵션) ★4.8 618 ₩98,426</span><span style="color:#9333ea">● 정품 NH35/38 ★5.0 253 ₩105,086</span></div></body></html>

diff --git a/watch_mod/price_tracker/latest.md b/watch_mod/price_tracker/latest.md
@@ -1,20 +1,20 @@
 # NH35A / NH38A 일본 정품 가격 추적
 
-마지막 확인: 2026. 11. 7. 오후 1:01:06 (기록 20회)
+마지막 확인: 2026. 11. 7. 오후 5:01:03 (기록 21회)
 
 ## NH38A
-- 검증된 정품 최저가: **₩94,233** [#1005001430226835](https://www.aliexpress.com/item/1005001430226835.html) ★4.8 · 641판매
-- 직전 대비: +₩0
+- 검증된 정품 최저가: **₩98,426** [#1005001430226835](https://www.aliexpress.com/item/1005001430226835.html) ★4.8 · 641판매
+- 직전 대비: +₩4,193
 - 기록상 최저: ₩88,460
-- 정품 NH38A ★4.9 1K+: ₩96,285 ([링크](https://www.aliexpress.com/item/1005010806500239.html))
+- 정품 NH38A ★4.9 1K+: ₩104,000 ([링크](https://www.aliexpress.com/item/1005010806500239.html))
 - 정품 NH38A ★4.9 2K+: ₩113,400 ([링크](https://www.aliexpress.com/item/1005008240895208.html))
 
 ## NH35A
-- 검증된 정품 최저가: **₩94,233** [#1005001430226835](https://www.aliexpress.com/item/1005001430226835.html) ★4.8 · 641판매
-- 직전 대비: +₩0
+- 검증된 정품 최저가: **₩98,426** [#1005001430226835](https://www.aliexpress.com/item/1005001430226835.html) ★4.8 · 641판매
+- 직전 대비: +₩4,193
 - 기록상 최저: ₩93,308
-- 정품 NH35A ★4.8 687: ₩109,457 ([링크](https://www.aliexpress.com/item/1005006845396357.html))
-- 정품 NH35A(옵션) ★4.8 618: ₩94,233 ([링크](https://www.aliexpress.com/item/1005001430226835.html))
+- 정품 NH35A ★4.8 687: - ([링크](https://www.aliexpress.com/item/1005006845396357.html))
+- 정품 NH35A(옵션) ★4.8 618: ₩98,426 ([링크](https://www.aliexpress.com/item/1005001430226835.html))
 - 정품 NH35/38 ★5.0 253: ₩105,086 ([링크](https://www.aliexpress.com/item/1005012515033825.html))
 
 ![chart](chart.png)
